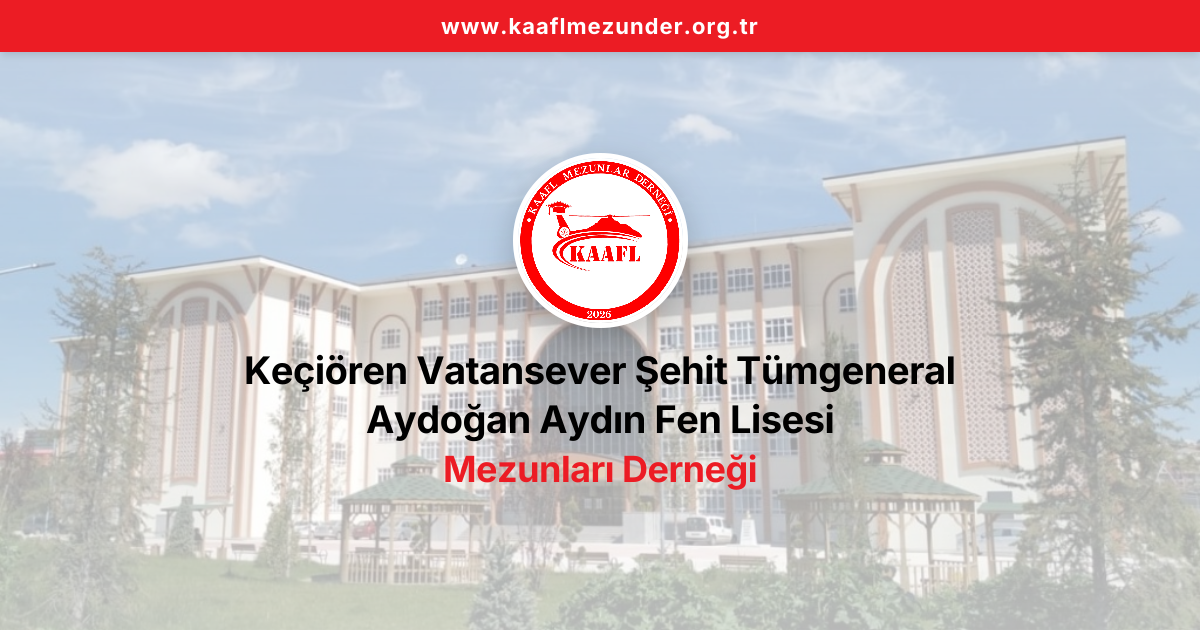
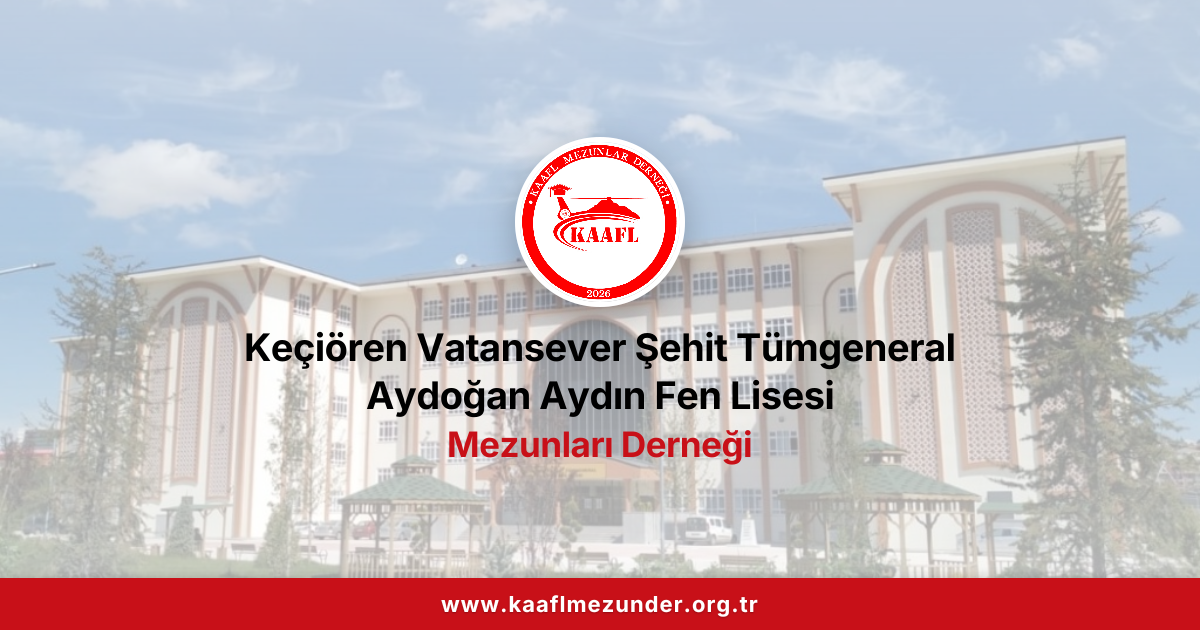
style(branding): return red bar to bottom, apply rich deep crimson red tone, and fine-tune typography scale to 35px

Changed region(s): [[0.185, 0.2111, 0.8017, 0.7841], [0.0, 0.9048, 1.0, 1.0], [0.0, 0.0, 1.0, 0.0905]]

diff --git a/src/app/opengraph-image.tsx b/src/app/opengraph-image.tsx
@@ -43,6 +43,8 @@ export default async function OpenGraphImage() {
     fontData = null;
   }
 
+  const redColor = "#c81018";
+
   return new ImageResponse(
     (
       <div
@@ -84,34 +86,12 @@ export default async function OpenGraphImage() {
             width: "100%",
             height: "100%",
             background:
-              "linear-gradient(180deg, rgba(255, 255, 255, 0.72) 0%, rgba(255, 255, 255, 0.58) 50%, rgba(255, 255, 255, 0.72) 100%)",
+              "linear-gradient(180deg, rgba(255, 255, 255, 0.70) 0%, rgba(255, 255, 255, 0.55) 45%, rgba(255, 255, 255, 0.72) 100%)",
           }}
         />
 
-        {/* Top red header bar */}
-        <div
-          style={{
-            width: "100%",
-            height: "52px",
-            background: "#ec1c24",
-            display: "flex",
-            alignItems: "center",
-            justifyContent: "center",
-            boxShadow: "0 2px 10px rgba(0, 0, 0, 0.15)",
-          }}
-        >
-          <span
-            style={{
-              fontSize: "22px",
-              fontWeight: 700,
-              color: "#ffffff",
-              letterSpacing: "1px",
-              fontFamily: "Inter",
-            }}
-          >
-            www.kaaflmezunder.org.tr
-          </span>
-        </div>
+        {/* Top breathing space */}
+        <div style={{ height: "24px" }} />
 
         {/* Center Content: Logo + 3-line typography */}
         <div
@@ -122,7 +102,6 @@ export default async function OpenGraphImage() {
             justifyContent: "center",
             textAlign: "center",
             padding: "0 50px",
-            marginBottom: "36px",
           }}
         >
           {/* Logo */}
@@ -131,12 +110,12 @@ export default async function OpenGraphImage() {
               src={logoBase64}
               alt="Dernek Logosu"
               style={{
-                width: "175px",
-                height: "175px",
+                width: "170px",
+                height: "170px",
                 borderRadius: "50%",
-                boxShadow: "0 12px 35px rgba(0, 0, 0, 0.22)",
+                boxShadow: "0 12px 35px rgba(0, 0, 0, 0.25)",
                 border: "5px solid #ffffff",
-                marginBottom: "18px",
+                marginBottom: "16px",
                 objectFit: "cover",
               }}
             />
@@ -146,14 +125,14 @@ export default async function OpenGraphImage() {
                 width: "160px",
                 height: "160px",
                 borderRadius: "50%",
-                background: "#ec1c24",
+                background: redColor,
                 display: "flex",
                 alignItems: "center",
                 justifyContent: "center",
                 color: "#ffffff",
                 fontSize: "48px",
                 fontWeight: 700,
-                marginBottom: "18px",
+                marginBottom: "16px",
                 border: "5px solid #ffffff",
               }}
             >
@@ -170,7 +149,7 @@ export default async function OpenGraphImage() {
               justifyContent: "center",
               fontSize: "38px",
               fontWeight: 700,
-              lineHeight: 1.28,
+              lineHeight: 1.25,
               color: "#000000",
               margin: 0,
               maxWidth: "1080px",
@@ -181,14 +160,37 @@ export default async function OpenGraphImage() {
           >
             <span style={{ color: "#000000" }}>Keçiören Vatansever Şehit Tümgeneral</span>
             <span style={{ color: "#000000" }}>Aydoğan Aydın Fen Lisesi</span>
-            <span style={{ color: "#ec1c24", fontSize: "36px", marginTop: "2px" }}>
+            <span style={{ color: redColor, fontSize: "35px", marginTop: "3px" }}>
               Mezunları Derneği
             </span>
           </h1>
         </div>
 
-        {/* Bottom spacing helper */}
-        <div style={{ height: "1px" }} />
+        {/* Bottom solid red bar */}
+        <div
+          style={{
+            width: "100%",
+            height: "52px",
+            background: redColor,
+            display: "flex",
+            alignItems: "center",
+            justifyContent: "center",
+            boxShadow: "0 -2px 10px rgba(0, 0, 0, 0.15)",
+          }}
+        >
+          <span
+            style={{
+              fontSize: "22px",
+              fontWeight: 700,
+              color: "#ffffff",
+              letterSpacing: "1px",
+              fontFamily: "Inter",
+              textShadow: "0 1px 3px rgba(0, 0, 0, 0.3)",
+            }}
+          >
+            www.kaaflmezunder.org.tr
+          </span>
+        </div>
       </div>
     ),
     {

diff --git a/src/app/layout.tsx b/src/app/layout.tsx
@@ -63,7 +63,7 @@ export const metadata: Metadata = {
     description: associationDescription,
     images: [
       {
-        url: "/images/og-image.jpg?v=5",
+        url: "/images/og-image.jpg?v=6",
         width: 1200,
         height: 630,
         type: "image/jpeg",
@@ -75,7 +75,7 @@ export const metadata: Metadata = {
     card: "summary_large_image",
     title: `${associationName} | KAAFL Mezunları Derneği`,
     description: associationDescription,
-    images: ["/images/og-image.jpg?v=5"],
+    images: ["/images/og-image.jpg?v=6"],
   },
   robots: {
     index: true,

diff --git a/src/config/site.ts b/src/config/site.ts
@@ -13,7 +13,7 @@ export const siteConfig = {
   name: associationName,
   shortName: associationShortName,
   url: siteUrl,
-  ogImage: `${siteUrl}/images/og-image.jpg?v=5`,
+  ogImage: `${siteUrl}/images/og-image.jpg?v=6`,
   logoUrl: `${siteUrl}/logo-dernek.jpg`,
   faviconUrl: `${siteUrl}/logo-dernek.svg`,
   description: associationDescription,
